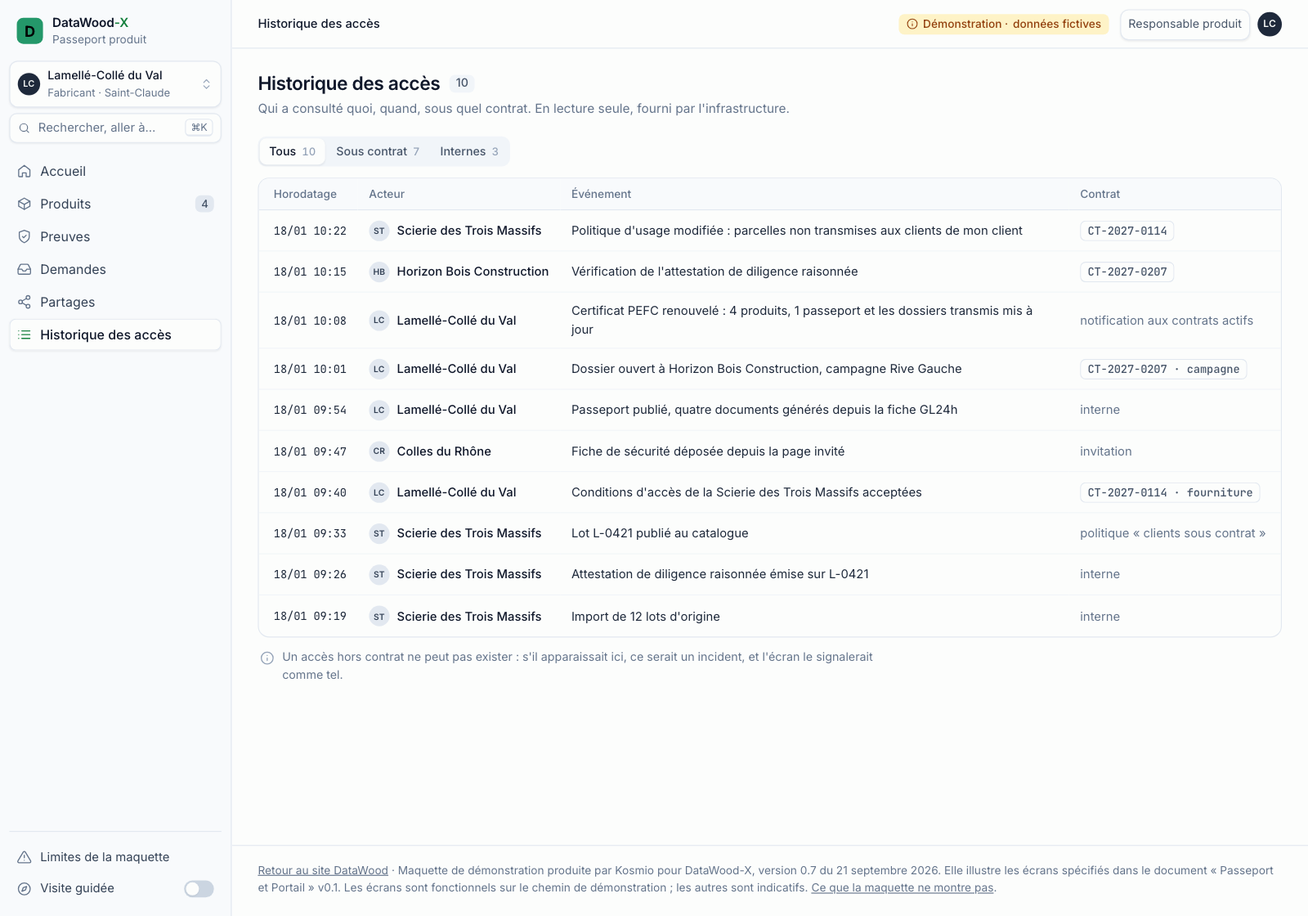
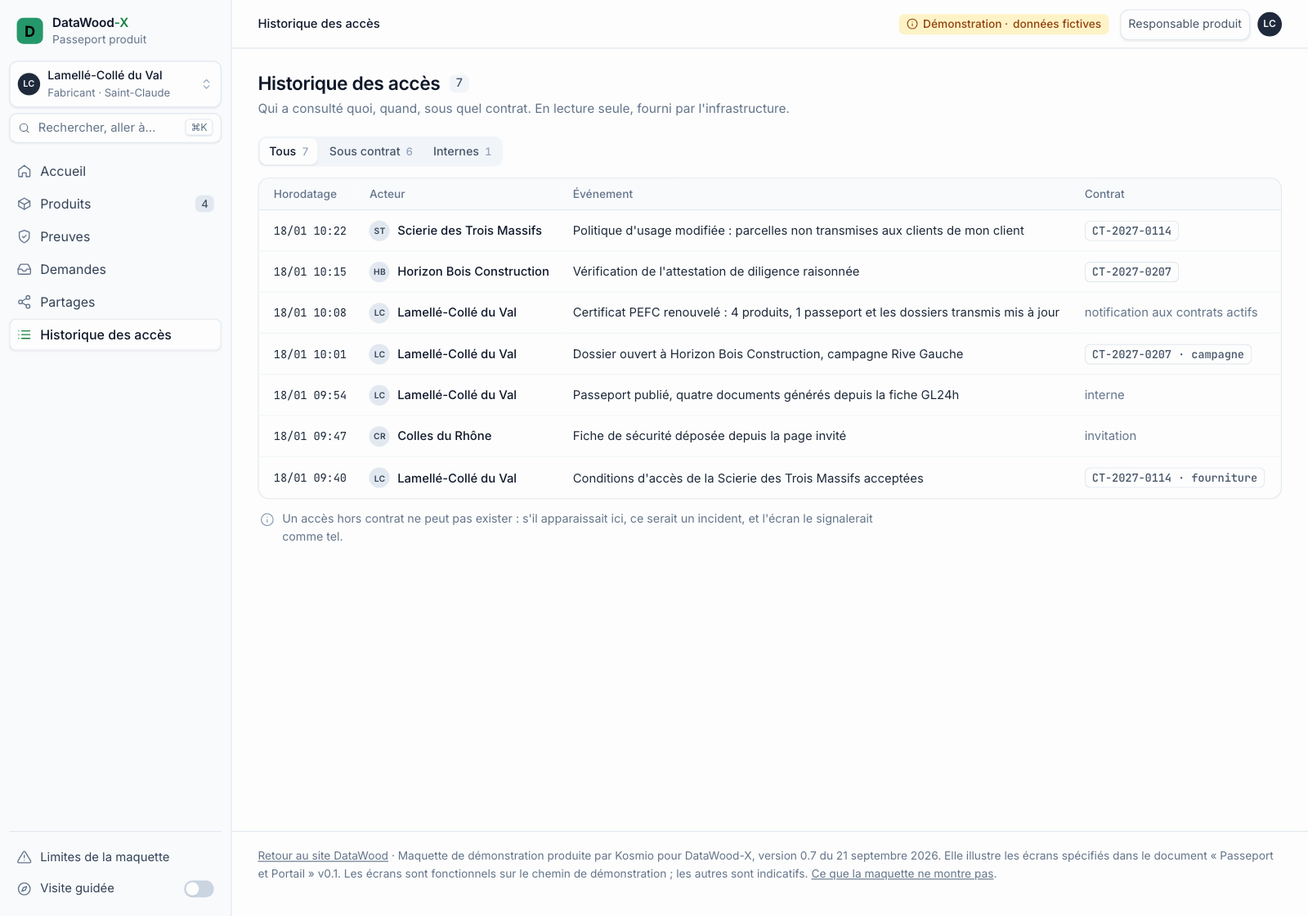
Maquette v0.7 : corrections issues du test utilisateur
Parcours deroule clic apres clic sur portable 1366x768 et sur mobile, lu avec les yeux
d un professionnel de la filiere bois qui decouvre le sujet. La carte de visite se range
a gauche avant de faire defiler la page, plus aucune etape ne s enchaine seule (texte
d apres-coup puis Continuer), la carte se condense des le deuxieme geste, le passeport
garde sa position de defilement, statuts en toutes lettres, historique des acces
cloisonne par organisation, carte de preuve dans le dossier recu, barre basse sur mobile,
plus aucun debordement horizontal. Captures de l article regenerees.

diff --git a/public/maquette/index.html b/public/maquette/index.html
@@ -565,6 +565,70 @@ h2.sec.sm{font-size:13px}
 .fin-acts{display:flex;gap:8px;flex-wrap:wrap;padding:14px 16px;border-top:1px solid var(--line);background:var(--s50)}
 a.btn{text-decoration:none}
 
+/* ================= mouvement ================= */
+@keyframes spin{to{transform:rotate(360deg)}}
+@keyframes rise{from{opacity:0;transform:translateY(6px)}to{opacity:1;transform:none}}
+@keyframes pop{from{opacity:0;transform:translateY(6px) scale(.985)}to{opacity:1;transform:none}}
+@keyframes slide{from{opacity:0;transform:translateX(10px)}to{opacity:1;transform:none}}
+@keyframes toast{from{opacity:0;transform:translateY(8px)}to{opacity:1;transform:none}}
+@keyframes fade{to{opacity:0;transform:translateY(-4px)}}
+@keyframes fadein{from{opacity:0}}
+@keyframes grow{from{transform:scaleX(0)}}
+@keyframes pulse{0%,100%{opacity:1}50%{opacity:.35}}
+@keyframes ring{0%{box-shadow:0 0 0 0 oklch(62.7% 0.170 149.2 / .5)}70%{box-shadow:0 0 0 7px oklch(62.7% 0.170 149.2 / 0)}100%{box-shadow:0 0 0 0 oklch(62.7% 0.170 149.2 / 0)}}
+@keyframes flash{from{background:var(--em100)}}
+.tbl tr.arrive td{animation:rise var(--t3) var(--expo) both;animation-delay:calc(var(--i,0) * 35ms)}
+.tbl tr.flash td{animation:flash 1.4s var(--quart)}
+.appear{animation:rise var(--t3) var(--expo) both}
+.still,.still td{animation:none!important}
+@media (pointer:coarse){
+  .btn{min-height:40px} .btn.sm{min-height:36px} .btn.ic,.btn.sm.ic{min-width:40px}
+  .nav button,.tabs button{min-height:40px}
+}
+@media (prefers-reduced-motion: reduce){
+  *,*::before,*::after{animation-duration:.01ms!important;animation-iteration-count:1!important;
+    transition-duration:.01ms!important;scroll-behavior:auto!important}
+}
+
+/* ================= écrans étroits ================= */
+@media (max-width:1180px){
+  .split,.grid2,.grid2.eq{grid-template-columns:minmax(0,1fr)}
+  .panel{position:static;max-height:none}
+}
+@media (max-width:900px){
+  .app{grid-template-columns:minmax(0,1fr)}
+  .sb{position:fixed;left:0;top:0;bottom:0;width:272px;transform:translateX(-100%);transition:transform var(--t3) var(--expo);box-shadow:var(--sh2)}
+  .app.nav-open .sb{transform:none}
+  .app.nav-open .scrim{display:block;position:fixed;inset:0;z-index:25;background:oklch(20.8% 0.040 265.8 / .2)}
+  .menu-btn{display:inline-flex!important}
+  .tb{padding:0 16px}
+  .who .role,.tb .demo-l{display:none}
+  main{padding:20px 16px 200px}
+  .foot{padding:16px}
+  .tbl{overflow-x:auto}
+  .tbl th{position:static}
+  .search input{width:100%}
+  .search{flex:1 1 100%}
+  .pop{top:54px;left:10px;width:252px}
+  .toolbar .r .sub2,.search kbd{display:none}
+  .ladder{flex-direction:column}
+  .rung-sep{transform:rotate(90deg)}
+  .props{grid-template-columns:110px minmax(0,1fr)}
+  .hsteps{flex-wrap:wrap}
+  .coach{left:12px;right:12px;bottom:12px;width:auto}
+  .toasts{left:12px;right:12px;bottom:auto;top:calc(var(--tb) + 8px);width:auto}
+  .coach.min{left:auto}
+  .coach.left{left:12px}
+  .coach-resume{right:12px;bottom:12px}
+}
+/* écran étroit : les colonnes secondaires s'effacent pour garder l'état et les actions à l'écran */
+@media (max-width:760px){
+  .tbl .opt{display:none}
+  .tbl td{white-space:normal}
+  .tbl td.m,.tbl td.num{white-space:nowrap}
+  .tbl td.ell{max-width:none}
+  .tbl td.w{min-width:0}
+}
 /* ================= version 0.7 : navigation par rôle, preuves, passeport consultable ================= */
 body{font-size:14px}
 body.ov-open{overflow:hidden}
@@ -623,6 +687,8 @@ button.stt:hover{color:var(--s900);text-decoration:underline dotted;text-underli
 .impact li{display:flex;gap:10px;align-items:center;padding:10px 16px;border-top:1px solid var(--s100);font-size:13px}
 .impact li .i{color:var(--s500)} .impact li .r{margin-left:auto}
 
+/* les libellés pour lecteurs d'écran restent dans leur tableau : sinon ils élargissent le document sur mobile */
+.tbl{position:relative}
 /* matrice « qui voit quoi » */
 .mx table{table-layout:fixed}
 .mx th,.mx td{text-align:center}
@@ -724,72 +790,32 @@ button.stt:hover{color:var(--s900);text-decoration:underline dotted;text-underli
   .qq{grid-template-columns:34px minmax(0,1fr) auto} .qq .btn{grid-column:2 / -1;justify-self:start}
   .mx table{table-layout:auto} .tbl.mx{overflow-x:auto}
 }
-.toast.def>.i{color:var(--blue700)}
 
-/* ================= mouvement ================= */
-@keyframes spin{to{transform:rotate(360deg)}}
-@keyframes rise{from{opacity:0;transform:translateY(6px)}to{opacity:1;transform:none}}
-@keyframes pop{from{opacity:0;transform:translateY(6px) scale(.985)}to{opacity:1;transform:none}}
-@keyframes slide{from{opacity:0;transform:translateX(10px)}to{opacity:1;transform:none}}
-@keyframes toast{from{opacity:0;transform:translateY(8px)}to{opacity:1;transform:none}}
-@keyframes fade{to{opacity:0;transform:translateY(-4px)}}
-@keyframes fadein{from{opacity:0}}
-@keyframes grow{from{transform:scaleX(0)}}
-@keyframes pulse{0%,100%{opacity:1}50%{opacity:.35}}
-@keyframes ring{0%{box-shadow:0 0 0 0 oklch(62.7% 0.170 149.2 / .5)}70%{box-shadow:0 0 0 7px oklch(62.7% 0.170 149.2 / 0)}100%{box-shadow:0 0 0 0 oklch(62.7% 0.170 149.2 / 0)}}
-@keyframes flash{from{background:var(--em100)}}
-.tbl tr.arrive td{animation:rise var(--t3) var(--expo) both;animation-delay:calc(var(--i,0) * 35ms)}
-.tbl tr.flash td{animation:flash 1.4s var(--quart)}
-.appear{animation:rise var(--t3) var(--expo) both}
-.still,.still td{animation:none!important}
-@media (pointer:coarse){
-  .btn{min-height:40px} .btn.sm{min-height:36px} .btn.ic,.btn.sm.ic{min-width:40px}
-  .nav button,.tabs button{min-height:40px}
-}
-@media (prefers-reduced-motion: reduce){
-  *,*::before,*::after{animation-duration:.01ms!important;animation-iteration-count:1!important;
-    transition-duration:.01ms!important;scroll-behavior:auto!important}
-}
-
-/* ================= écrans étroits ================= */
-@media (max-width:1180px){
-  .split,.grid2,.grid2.eq{grid-template-columns:minmax(0,1fr)}
-  .panel{position:static;max-height:none}
-}
+/* barre basse et surfaces pleine page : notifications et carte de visite se rangent */
+.bnav{display:none}
+.ov-open .toasts{left:16px;bottom:16px;width:min(300px,calc(100vw - 32px))}
+@media (max-width:1180px){ .ov-open .toasts{bottom:auto;top:64px} }
 @media (max-width:900px){
-  .app{grid-template-columns:minmax(0,1fr)}
-  .sb{position:fixed;left:0;top:0;bottom:0;width:272px;transform:translateX(-100%);transition:transform var(--t3) var(--expo);box-shadow:var(--sh2)}
-  .app.nav-open .sb{transform:none}
-  .app.nav-open .scrim{display:block;position:fixed;inset:0;z-index:25;background:oklch(20.8% 0.040 265.8 / .2)}
-  .menu-btn{display:inline-flex!important}
-  .tb{padding:0 16px}
-  .who .role,.tb .demo-l{display:none}
-  main{padding:20px 16px 200px}
-  .foot{padding:16px}
-  .tbl{overflow-x:auto}
-  .tbl th{position:static}
-  .search input{width:100%}
-  .search{flex:1 1 100%}
-  .pop{top:54px;left:10px;width:252px}
-  .toolbar .r .sub2,.search kbd{display:none}
-  .ladder{flex-direction:column}
-  .rung-sep{transform:rotate(90deg)}
-  .props{grid-template-columns:110px minmax(0,1fr)}
-  .hsteps{flex-wrap:wrap}
-  .coach{left:12px;right:12px;bottom:12px;width:auto}
-  .toasts{left:12px;right:12px;bottom:auto;top:calc(var(--tb) + 8px);width:auto}
-  .coach.min{left:auto}
-  .coach.left{left:12px}
-  .coach-resume{right:12px;bottom:12px}
+  .bnav{display:grid;grid-template-columns:repeat(5,1fr);position:fixed;left:0;right:0;bottom:0;z-index:30;background:var(--s50);border-top:1px solid var(--line);
+    padding:4px 4px calc(6px + env(safe-area-inset-bottom))}
+  .bnav button{position:relative;display:flex;flex-direction:column;align-items:center;justify-content:center;gap:2px;min-height:48px;border:0;background:none;
+    font-size:10.5px;color:var(--s500);border-radius:8px}
+  .bnav button[aria-current="page"]{color:var(--em8);font-weight:500}
+  .bnav .dot{position:absolute;top:6px;left:calc(50% + 6px);width:7px;height:7px;border-radius:50%;background:var(--amber500);box-shadow:0 0 0 2px var(--s50)}
+  .tb .menu-btn{display:none!important}
+  .tbl .st,.tbl .stt{white-space:normal}
+  .tbl td.act .btn{white-space:nowrap}
+  .coach,.coach-resume{bottom:68px}
+  .ov-open .coach{bottom:12px}
+  main{padding-bottom:260px}
+  .foot{padding-bottom:84px}
 }
-/* écran étroit : les colonnes secondaires s'effacent pour garder l'état et les actions à l'écran */
 @media (max-width:760px){
-  .tbl .opt{display:none}
-  .tbl td{white-space:normal}
-  .tbl td.m,.tbl td.num{white-space:nowrap}
-  .tbl td.ell{max-width:none}
-  .tbl td.w{min-width:0}
+  .tbl th,.tbl td{padding-left:8px;padding-right:8px}
+  .tbl th:first-child,.tbl td:first-child{padding-left:12px}
+  .tbl td.act .btn{padding:0 8px;font-size:12px}
 }
+.toast.def>.i{color:var(--blue700)}
 </style>
 </head>
 <body>
@@ -845,6 +871,7 @@ button.stt:hover{color:var(--s900);text-decoration:underline dotted;text-underli
   <symbol id="i-tool" viewBox="0 0 24 24"><path d="M15 6a4 4 0 0 0 4.9 4.9L11 19.8A2 2 0 0 1 8.2 17L17.1 8A4 4 0 0 0 15 6z"/><path d="M15 6 18 3"/></symbol>
   <symbol id="i-recycle" viewBox="0 0 24 24"><path d="M21 12a9 9 0 1 1-3-6.7L21 8"/><path d="M21 3v5h-5"/></symbol>
   <symbol id="i-usercheck" viewBox="0 0 24 24"><circle cx="9" cy="8" r="4"/><path d="M2 21v-1a6 6 0 0 1 6-6h2a6 6 0 0 1 3 .8M16 19l2 2 4-4"/></symbol>
+  <symbol id="i-more" viewBox="0 0 24 24"><circle cx="5" cy="12" r="1"/><circle cx="12" cy="12" r="1"/><circle cx="19" cy="12" r="1"/></symbol>
   <symbol id="i-pencil" viewBox="0 0 24 24"><path d="M17 3a2.8 2.8 0 0 1 4 4L7.5 20.5 2 22l1.5-5.5z"/></symbol>
 </svg>
 
@@ -862,6 +889,7 @@ button.stt:hover{color:var(--s900);text-decoration:underline dotted;text-underli
   </div>
 </div>
 
+<nav class="bnav" id="bnav" aria-label="Navigation principale"></nav>
 <div id="coach"></div>
 <div id="pal"></div>
 <div id="pv"></div>
@@ -1308,7 +1336,7 @@ function actFeu(){
 /* le fournisseur invité : une demande, une page, sans abonnement */
 function openInvite(){
   if(!S.colle){ S.colle = 1; J(ACCOUNTS.fabricant.nom, "Invitation envoyée à Colles du Rhône pour une fiche de sécurité"); }
-  S.invite = true; S.menu = false; render(); fulfil('invite');
+  S.invite = true; S.menu = false; document.getElementById('toasts').innerHTML = ''; render(); fulfil('invite');
 }
 function closeInvite(){ S.invite = false; render(); }
 function actDepot(){ S.colle = 2; render(); fulfil('depot'); }
@@ -1324,7 +1352,14 @@ function actEnvoi(){
 }
 
 /* le passeport consultable : ce que l'on voit après avoir scanné l'étiquette */
-function openScan(vue, sec){ S.scan = vue || 'public'; S.scanSec = sec || null; S.scanJson = false; S.selProof = null; S.menu = false; render(); document.querySelector('#pv .ov')?.scrollTo(0, 0); document.getElementById('ov-x')?.focus(); }
+function openScan(vue, sec){
+  S.scan = vue || 'public'; S.scanSec = sec || null; S.scanJson = false; S.selProof = null; S.menu = false;
+  document.getElementById('toasts').innerHTML = '';
+  render();
+  const ov = document.querySelector('#pv .ov');
+  if(ov){ ov.scrollTop = 0; if(sec) document.getElementById('sec-' + sec)?.scrollIntoView({block:'center'}); }
+  document.getElementById('ov-x')?.focus({preventScroll:true});
+}
 function closeScan(){ S.scan = null; S.selProof = null; render(); }
 function scanSec(k){
   S.scanSec = S.scanSec === k ? null : k; S.selProof = null; render();
@@ -1368,6 +1403,7 @@ const TOUR = [
    p:"Elle l'importe tel quel, signe la référence de sa déclaration d'origine, puis rend le lot visible de ses clients, et d'eux seuls.",
    clair:'dds',
    capot:"La scierie ne dépose rien sur une plateforme. Elle publie une annonce dans le catalogue du data space ; le lot et ses parcelles restent chez elle, et n'en sortent que sous contrat.",
+   manual:true, apres:"Le lot est publié. La scierie n'a rien envoyé à personne : son lot est simplement devenu visible de ses clients sous contrat, avec ses parcelles et son attestation. Douze lots déclarés en quatre gestes, sans rien ressaisir.",
    do:() => !S.lotsImported ? "Importez le tableur" : S.screen === 'PA-03' ? "Ouvrez la liste des lots" : S.ddsLots.includes('L-0421') ? "Publiez le lot L-0421" : "Signez l'attestation du lot L-0421"},
 
   {acte:2, t:"Le fabricant récupère l'origine", acc:'fabricant', sc:'PA-10', tab:'diag', keys:['attach'],
@@ -1376,6 +1412,7 @@ const TOUR = [
    p:"Il demande l'accès au lot de son scieur, puis le rattache à ses lamelles. Aucune coordonnée n'est ressaisie, aucun courriel n'est envoyé.",
    clair:'preuve',
    capot:"Deux connecteurs se parlent : celui du fabricant demande, celui de la scierie répond avec ses conditions. L'accord est scellé par l'infrastructure. La donnée est lue chez la scierie, jamais copiée sur un serveur tiers.",
+   manual:true, apres:"L'origine est justifiée : il ne manque plus qu'une pièce au dossier. Le fabricant n'a pas reçu de fichier, il a reçu un droit de lecture sur le lot de sa scierie. Si elle le corrige un jour, il sera prévenu.",
    do:() => S.tab !== 'compo' ? "Cliquez « Demander au scieur »" : S.accessPhase === 3 ? "Rattachez le lot aux lamelles" : "Demandez l'accès au lot"},
 
   {acte:2, t:"Un fournisseur sans logiciel répond quand même", acc:'fabricant', sc:'PA-10', tab:'diag', keys:['colle'],
@@ -1383,6 +1420,7 @@ const TOUR = [
    story:"Il manque encore la fiche de sécurité de la colle. Son fournisseur est une petite entreprise, sans outil de traçabilité et sans envie d'en acheter un.",
    p:"Il reçoit un simple lien. Il voit qui demande, pour quoi faire, qui verra sa pièce et pendant combien de temps. Puis il la dépose.",
    capot:"La page invité est la marche la plus basse du réseau : pas de connecteur, pas d'adhésion. La pièce est rangée chez le fabricant qui l'a demandée, avec les droits que le fournisseur a choisis.",
+   manual:true, apres:"La fiche est rangée dans les preuves du fabricant, avec le statut « documenté ». Le fournisseur n'a créé aucun compte et a choisi lui-même ce qu'on peut en faire. Il ne manque plus rien au dossier.",
    do:() => !S.invite ? "Invitez le fournisseur de colle" : S.colle < 2 ? "À sa place : déposez la fiche" : "Envoyez la pièce"},
 
   {acte:2, t:"Valider, publier, rescanner", acc:'fabricant', sc:'PA-10', tab:'diag', keys:['feu','gen','scan2'], manual:true,
@@ -1397,6 +1435,7 @@ const TOUR = [
    story:"Un constructeur consulte ses fournisseurs pour 84 logements en bois. D'habitude, c'est une semaine de courriels et de pièces jointes.",
    p:"Ici, sa liste d'exigences est rapprochée de vos preuves. Vous voyez ce qui est couvert, ce qu'il verra et ce qu'il ne verra pas. Un clic pour répondre.",
    capot:"Répondre n'envoie aucun fichier. Le fabricant ouvre à son client un droit de lecture, borné par un contrat : une finalité, une durée, l'interdiction de rediffuser.",
+   manual:true, apres:"Le dossier est parti sans courriel ni pièce jointe. Le client lit désormais vos preuves, dans les limites que vous venez de voir. Si l'une d'elles change, il le saura.",
    do:"Envoyez le dossier"},
 
   {acte:3, t:"Une preuve expire : qui est concerné ?", acc:'fabricant', sc:'PA-07', proof:'pefc', keys:['impact','renew'],
@@ -1404,6 +1443,7 @@ const TOUR = [
    story:"Un certificat arrive à échéance dans 55 jours. Avec des fichiers éparpillés, personne ne sait où il a été utilisé.",
    p:"Ici, la preuve sait qui la cite : quatre produits, un passeport publié, un dossier client. On la renouvelle une fois, tout se met à jour.",
    capot:"Les produits, le passeport et le dossier du client pointent vers la preuve au lieu d'en garder une copie. Quand elle change, tout ce qui la cite le sait, y compris chez le client.",
+   manual:true, apres:"Tout ce qui citait le certificat est à jour, y compris le dossier déjà transmis au client. C'est l'intérêt d'une preuve déposée une seule fois : on la corrige une seule fois.",
    do:() => S.impact ? "Déposez le certificat renouvelé" : "Cliquez « Voir l'impact »"},
 
   {acte:3, t:"Côté chantier : tout le portefeuille d'un regard", acc:'constructeur', sc:'PO-01', keys:['verify'], manual:true,
@@ -1492,6 +1532,8 @@ function applyStep(){
   S.selProof = t.proof || null;
   S.scan = t.scan || null; S.scanSec = null; S.scanJson = false; S.invite = false;
   S.menu = false; S.navOpen = false;
+  S.anchor0 = anchorOf(t); S.more = false;   /* la carte se condense après le premier geste : l'explication se lit une fois */
+  window.scrollTo(0, 0);
   render(true);
 }
 function stepGo(d){
@@ -1878,12 +1920,12 @@ const SCREENS = {
 "PA-03": () => S.account === 'fabricant' ? importDocs() : importLots(),
 
 "PA-12": () => {
-  const rows = S.journal.filter(j => S.jTab === 'all' || (S.jTab === 'ext' ? j.contrat !== 'interne' : j.contrat === 'interne'));
-  const nExt = S.journal.filter(j => j.contrat !== 'interne').length;
-  return PH(`Historique des accès <span class="cnt-h">${S.journal.length}</span>`, "Qui a consulté quoi, quand, sous quel contrat. En lecture seule, fourni par l'infrastructure.")
-  + (S.journal.length
+  const rows = monJournal().filter(j => S.jTab === 'all' || (S.jTab === 'ext' ? j.contrat !== 'interne' : j.contrat === 'interne'));
+  const nExt = monJournal().filter(j => j.contrat !== 'interne').length;
+  return PH(`Historique des accès <span class="cnt-h">${monJournal().length}</span>`, "Qui a consulté quoi, quand, sous quel contrat. En lecture seule, fourni par l'infrastructure.")
+  + (monJournal().length
     ? `<div class="toolbar"><div class="tabs" role="group" aria-label="Filtrer le journal">
-        ${[['all','Tous',S.journal.length],['ext','Sous contrat',nExt],['int','Internes',S.journal.length - nExt]].map(([k, l, n]) =>
+        ${[['all','Tous',monJournal().length],['ext','Sous contrat',nExt],['int','Internes',monJournal().length - nExt]].map(([k, l, n]) =>
           `<button aria-pressed="${S.jTab === k}" onclick="S.jTab='${k}';render()">${l}<span class="n">${n}</span></button>`).join("")}</div></div>
       <div class="tbl"><table data-hide="Contrat">
       <thead><tr><th>Horodatage</th><th>Acteur</th><th>Événement</th><th>Contrat</th></tr></thead><tbody>
@@ -2309,7 +2351,7 @@ function scanHTML(){
     <div class="pp-kv"><span>Opérateur responsable</span><span class="b">Lamellé-Collé du Val</span></div>
     <div class="pp-kv"><span>Version applicable au</span><span class="m">18/01/2027</span></div>
     <div class="pp-lab">Exigences et preuves</div>
-    ${EXIG().slice(0, 6).map(e => `<div class="pp-kv"><span>${e.t}</span>${e.s === 'ok' ? stt(PREUVE(e.pr, true).s, e.pr, {court:true}) : e.s === 'val' ? stt('non') : `<span class="stt non">${I('alert')}Manquante</span>`}</div>`).join("")}
+    ${EXIG().slice(0, 6).map(e => `<div class="pp-kv"><span>${e.t}</span>${e.s === 'ok' ? stt(PREUVE(e.pr, true).s, e.pr) : e.s === 'val' ? stt('non') : `<span class="stt non">${I('alert')}Manquante</span>`}</div>`).join("")}
     <div class="pp-lab">Dernières modifications</div>
     ${(S.journal.filter(j => j.qui === ACCOUNTS.fabricant.nom).slice(0, 3).map(j => `<div class="pp-kv"><span style="font-size:13.5px">${esc(j.quoi)}</span><span class="m mut">${esc(j.t)}</span></div>`).join("")) || `<div class="pp-kv mut">Aucune modification enregistrée</div>`}`;
 
@@ -2345,8 +2387,8 @@ function scanHTML(){
         ${v === 'aut' ? autorite : `
         <div class="pp-lab">À retenir</div>
         <div class="pp-kv"><span>${ESSENCES[l.ess]} · France</span>${orig ? stt('doc', 'dds') : `<span class="stt non">${I('alert')}Origine non justifiée</span>`}</div>
-        <div class="pp-kv"><span>${orig ? "Forêts certifiées PEFC" : "Site de fabrication certifié PEFC"}</span>${stt('tiers', 'pefc', {court:true})}</div>
-        <div class="pp-kv"><span>Classe ${p.classe} · feu ${p.feu}</span>${stt('tiers', 'ccp', {court:true})}</div>
+        <div class="pp-kv"><span>${orig ? "Forêts certifiées PEFC" : "Site de fabrication certifié PEFC"}</span>${stt('tiers', 'pefc')}</div>
+        <div class="pp-kv"><span>Classe ${p.classe} · feu ${p.feu}</span>${stt('tiers', 'ccp')}</div>
         <div class="pp-kv"><span>${MASSE()}</span>${stt('decl', 'fiche')}</div>
         <div class="pp-lab">Que voulez-vous faire ?</div>
         <div class="intents">${[['origine','shield',"Vérifier l'origine"],['poser','tool',"Poser, entretenir"],['reemploi','recycle',"Démonter, réemployer"],['dossier','download',"Dossier technique"]].map(([k, ic, n]) =>
@@ -2386,6 +2428,11 @@ function inviteHTML(){
         <div class="pp-note">Sans compte ni abonnement. La case de réutilisation n'est jamais cochée d'avance : c'est à vous d'en décider.</div></div>
     </article></div></div>`;
 }
+
+const monJournal = () => S.journal.filter(j => j.qui === ACCOUNTS[S.account].nom
+  || (S.account !== 'scierie' && /0207|contrats actifs/.test(j.contrat))
+  || (S.account !== 'constructeur' && /0114/.test(j.contrat))
+  || (S.account === 'fabricant' && j.contrat === 'invitation'));
 
 function lotPanel(l){
   const s = lotStage(l.id), dds = s >= 2, pub = s === 3;
@@ -2472,11 +2519,14 @@ function coachHTML(){
   const switchBox = prev && !prev.hide && prev.acc !== t.acc && !over
     ? `<div class="coach-switch">${I('factory','s')}<span>Vous passez chez <b>${esc(ACCOUNTS[t.acc].nom)}</b></span></div>` : '';
   const c = t.clair ? (typeof t.clair === 'string' ? TERMS[t.clair] : t.clair) : null;
+  const suite = !over && sel && S.anchor0 && sel !== S.anchor0;
   const corps = over && t.apres
     ? `<p class="story">${t.apres}</p>`
+    : suite ? `<p><button class="term" onclick="S.anchor0=anchorOf(TOUR[S.step]);render()">Relire l'explication</button></p>`
+    : innerWidth <= 900 && !S.more ? `<p class="story">${t.story || t.p}</p><p><button class="term" onclick="S.more=true;render()">En savoir plus</button></p>`
     : `${t.story ? `<p class="story">${t.story}</p>` : ''}<p>${t.p}</p>
        ${c ? `<div class="coach-clair"><b>En clair · ${esc(c[0].toLowerCase())}.</b> ${esc(c[1])}</div>` : ''}`;
-  const capot = t.capot ? `<details class="capot"><summary>${I('chevr','s')}Sous le capot : ce que fait le data space</summary><p>${esc(t.capot)}</p></details>` : '';
+  const capot = t.capot && !suite && (innerWidth > 900 || S.more) ? `<details class="capot"><summary>${I('chevr','s')}Sous le capot : ce que fait le data space</summary><p>${esc(t.capot)}</p></details>` : '';
   const last = S.step === TOUR.length - 1;
   const next = sel && !S.stepDone
     ? B("Passer", {cls:'sm', iconR:'arrowr', on:'stepGo(1)', title:"Passer cette étape : son résultat est appliqué automatiquement"})
@@ -2496,6 +2546,14 @@ function coachHTML(){
 }
 
 const resumeHTML = () => S.screen === 'INTRO' ? '' : `<button class="btn coach-resume" onclick="setGuide(true)" data-k="resume">${I('compass')}Reprendre la visite · étape ${Math.max(1, S.step)} sur ${TOUR.length - 1}</button>`;
+
+/* sur mobile, l'espace de travail se navigue par une barre basse ; « Plus » ouvre le menu complet */
+function bnavHTML(){
+  const courant = (findNav(S.screen) || {}).k;
+  return NAV[S.account].slice(0, 4).map(([k, n, ic]) => { const c = navCount(k);
+    return `<button onclick="go('${k}')" ${courant === k ? 'aria-current="page"' : ''}>${I(ic,'l')}${c && c[0] !== 'q' ? '<span class="dot" aria-hidden="true"></span>' : ''}<span>${n.split(' ')[0]}</span></button>`; }).join("")
+    + `<button onclick="S.navOpen=true;render()" aria-label="Ouvrir le menu complet">${I('more','l')}<span>Plus</span></button>`;
+}
 
 /* palette de commandes */
 let PAL = [];
@@ -2569,7 +2627,8 @@ let dock = {side:'right', compact:false}, placeLock = 0;
    1. on fait défiler la page pour amener l'action au-dessus de la carte ;
    2. si elle reste recouverte, la carte passe à gauche ;
    3. sinon elle passe en version compacte, à droite ou à gauche. */
-function placeCoach(scrollIt){
+function placeCoach(scrollIt){ placeCoach0(scrollIt); liftToasts(); }
+function placeCoach0(scrollIt){
   const c = document.querySelector('#coach .coach:not(.min)');
   const t = TOUR[S.step], sel = S.guide ? anchorOf(t) : null;
   const target = qa(sel);
@@ -2582,7 +2641,7 @@ function placeCoach(scrollIt){
   }
   if(S.scan || S.invite){   /* page scannée ou invitée : la carte reste à droite, l'action vient au centre */
     const k = innerWidth <= 900 && !!target; c.classList.remove('left'); c.classList.toggle('compact', k); dock = {side:'right', compact:k};
-    if(scrollIt && target) target.scrollIntoView({block:'center', behavior:RM ? 'auto' : 'smooth'});
+    if(scrollIt && target){ const r = target.getBoundingClientRect(), bas = (k ? c.getBoundingClientRect().top : innerHeight) - 16; if(r.top < 64 || r.bottom > bas) target.scrollIntoView({block:'center', behavior:RM ? 'auto' : 'smooth'}); }
     return;
   }
   const set = (side, compact) => { c.classList.toggle('left', side === 'left'); c.classList.toggle('compact', compact); dock = {side, compact}; };
@@ -2593,6 +2652,12 @@ function placeCoach(scrollIt){
   }
   const mob = innerWidth <= 900, m = mob ? 12 : 20, headerBottom = 52 + 12;
   set('right', false);
+  { const r0 = target.getBoundingClientRect();
+    if(r0.top >= headerBottom + 40 && r0.bottom <= innerHeight - 8){
+      const cov = x0 => { const x1 = x0 + c.offsetWidth, y0 = innerHeight - m - c.offsetHeight; return !(r0.right < x0 - 8 || r0.left > x1 + 8 || r0.bottom < y0 - 8 || r0.top > innerHeight - m); };
+      if(!cov(innerWidth - m - c.offsetWidth)) return;
+      if(!mob){ set('left', false); if(!cov(268)) return; set('right', false); }
+    } }
   let dy = 0;
   if(scrollIt){
     const r = target.getBoundingClientRect();
@@ -2660,9 +2725,12 @@ function render(scrollToGuide){
   const fn = SCREENS[S.screen] || (() => empty('file', "Écran non maquetté", "Cet écran n'est pas couvert par la démonstration."));
   document.getElementById('main').innerHTML = fn();
   tidyTables();
-  document.getElementById('coach').innerHTML = S.guide ? coachHTML() : resumeHTML();
   document.getElementById('pal').innerHTML = S.pal ? palHTML() : '';
+  const ovY = document.querySelector('#pv .ov')?.scrollTop || 0;
   document.getElementById('pv').innerHTML = S.scan ? scanHTML() : S.invite ? inviteHTML() : '';
+  { const ov = document.querySelector('#pv .ov'); if(ov) ov.scrollTop = ovY; }
+  document.getElementById('bnav').innerHTML = bnavHTML();
+  document.getElementById('coach').innerHTML = S.guide ? coachHTML() : resumeHTML();
   document.body.classList.toggle('ov-open', !!(S.scan || S.invite));
   document.getElementById('pv').classList.toggle('guided', S.guide && !S.coachMin);
   settle();
